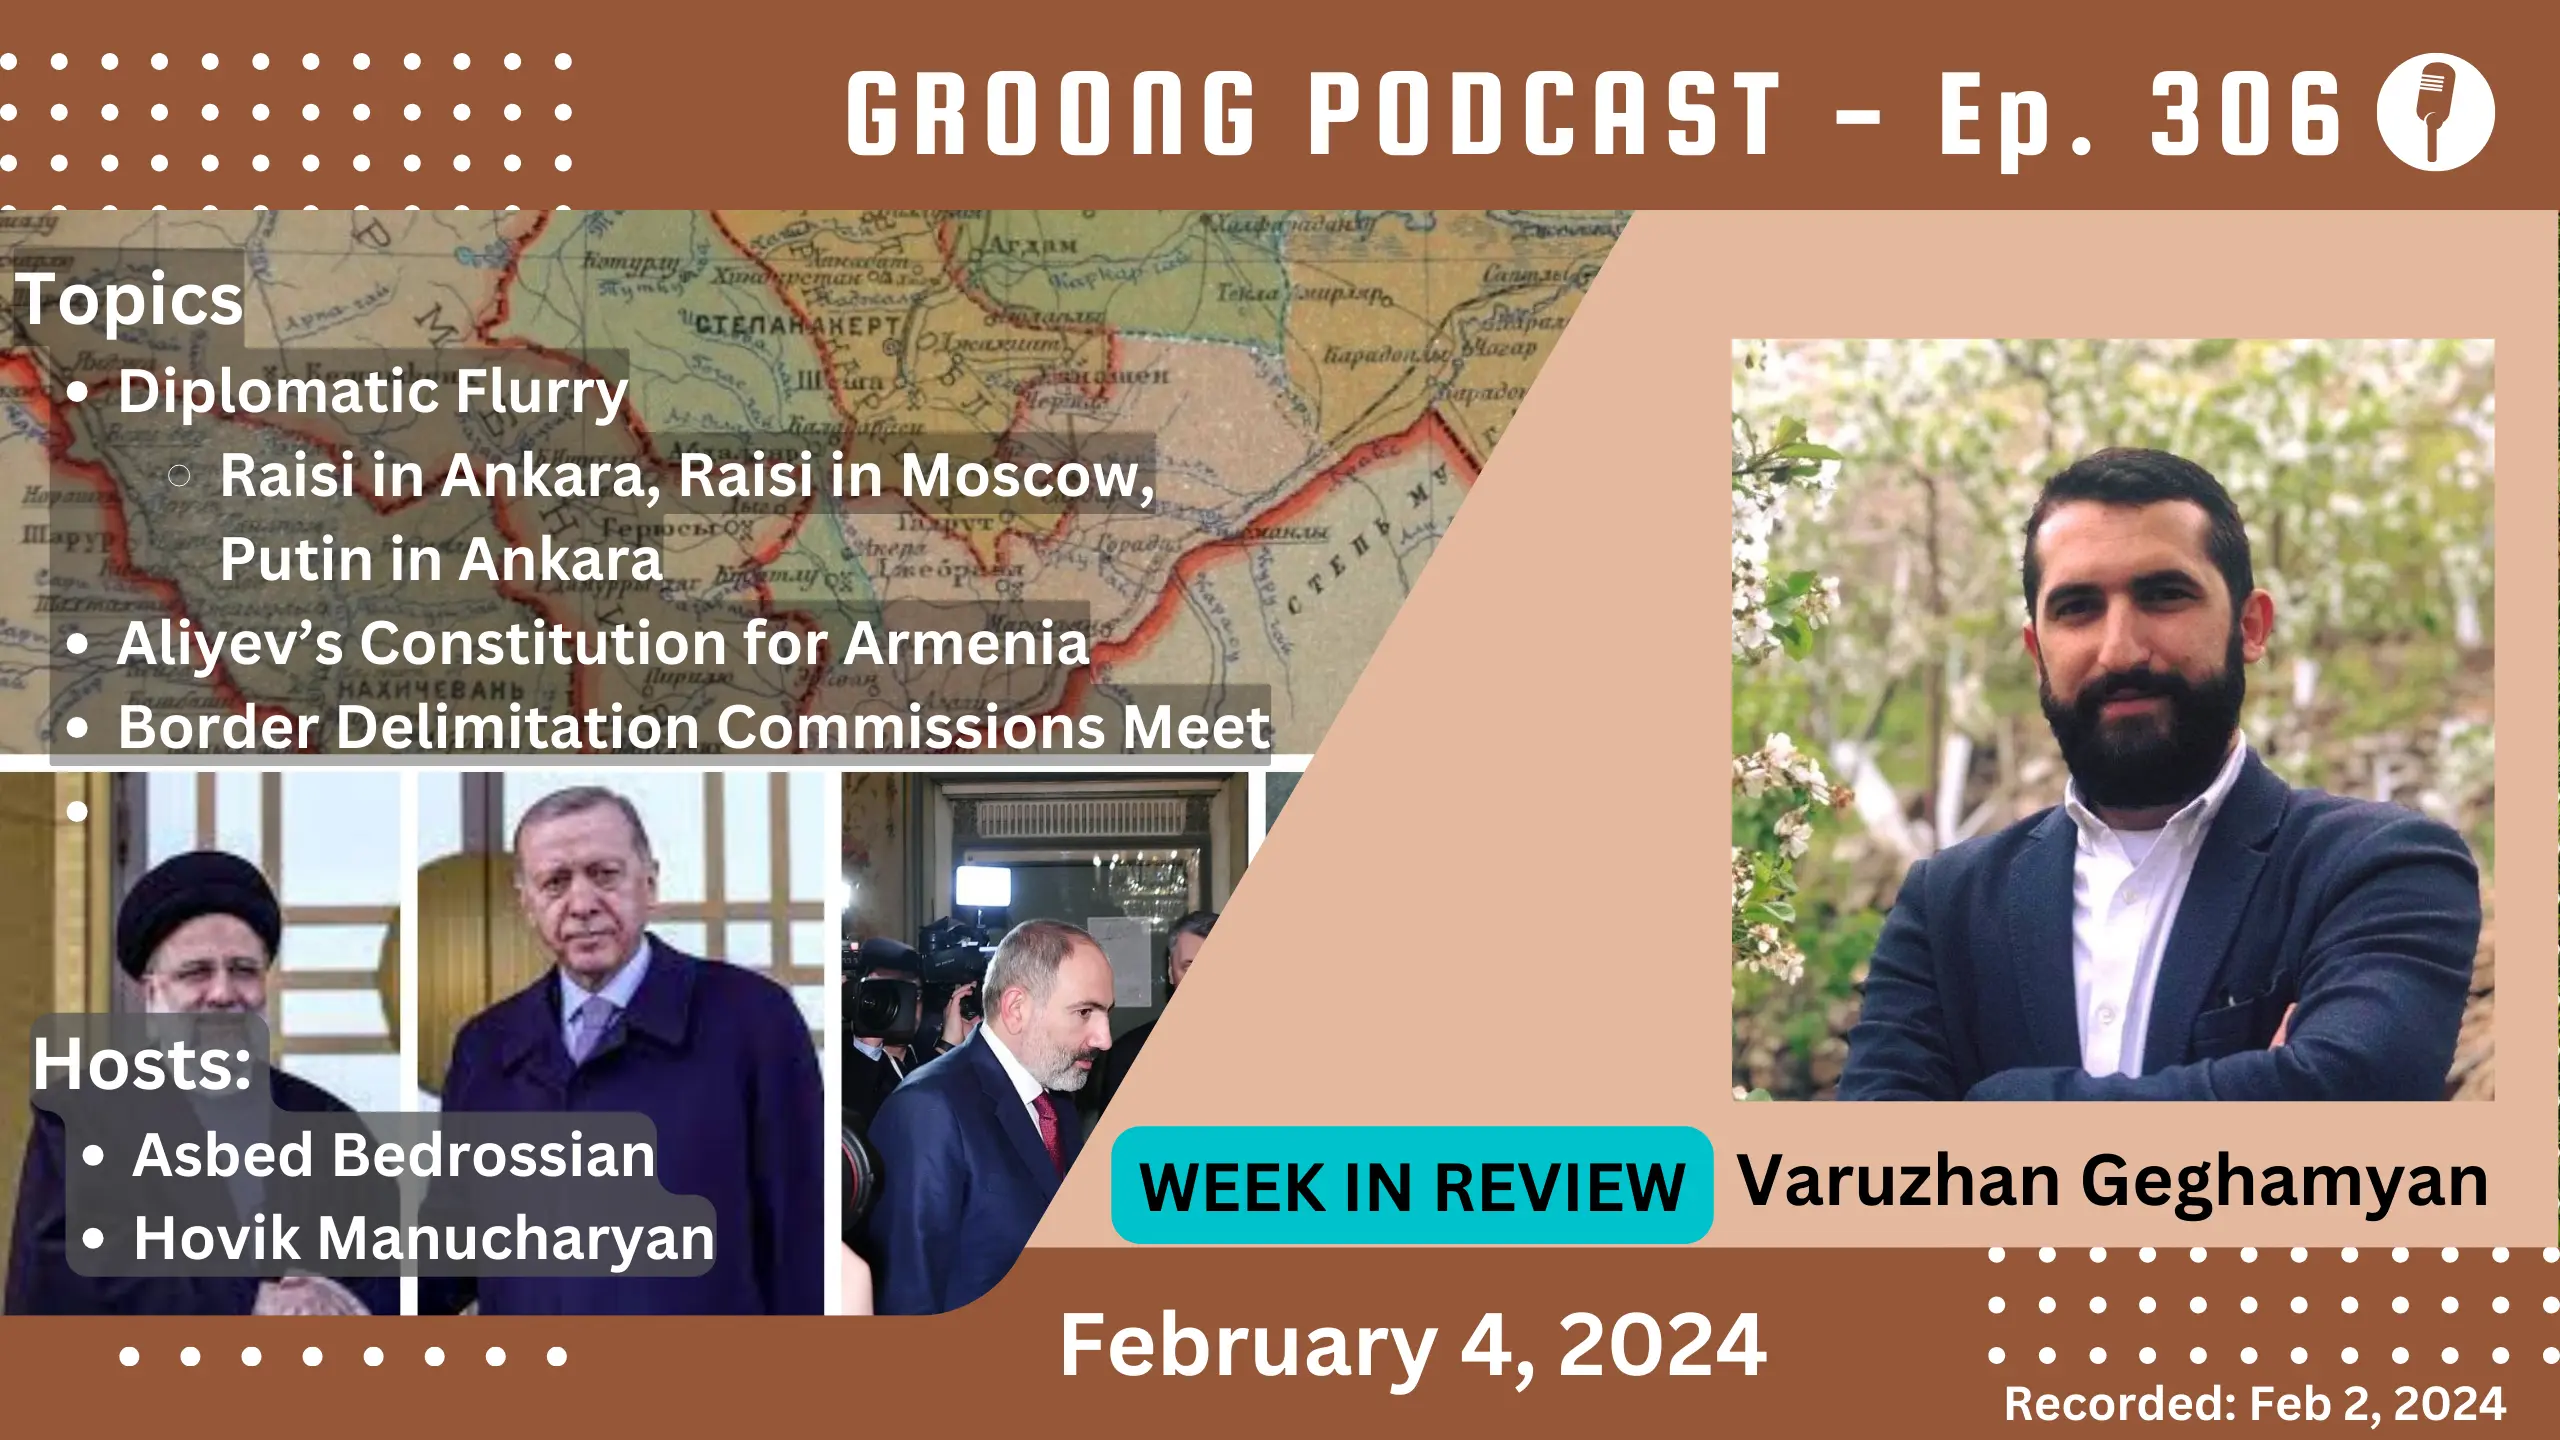
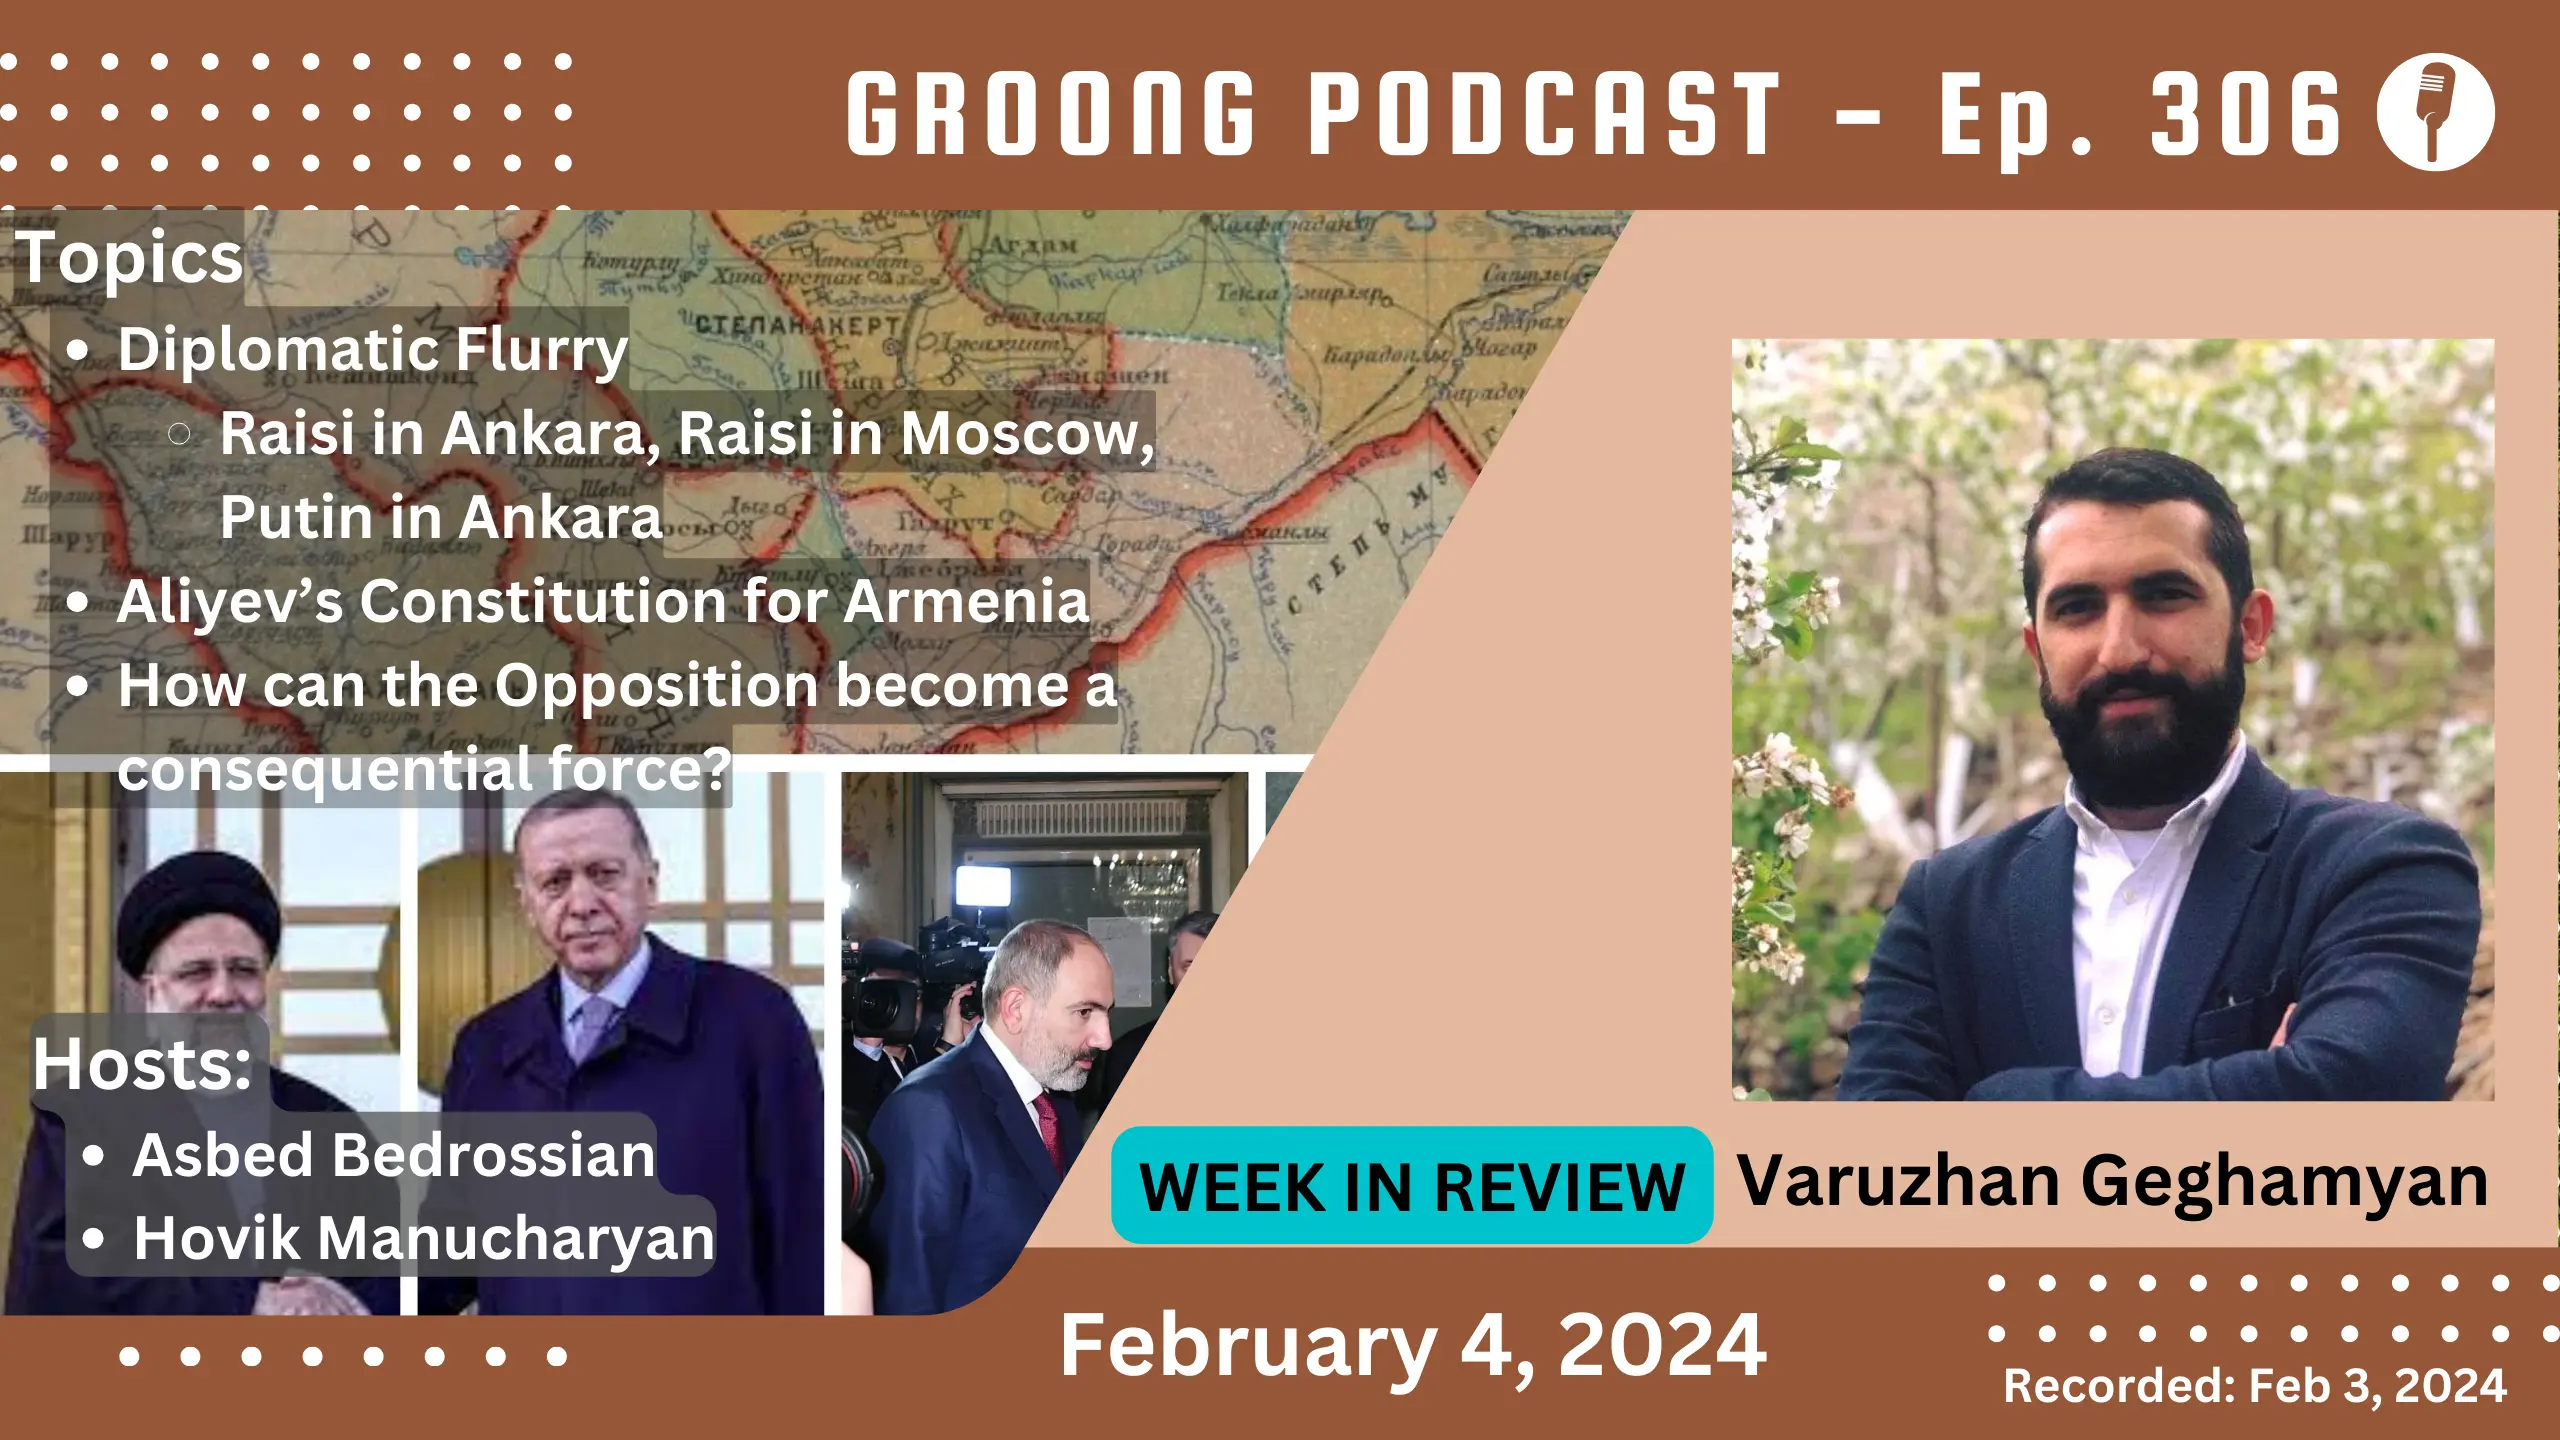
Contentifying Ep 306.

Changed region(s): [[0.0, 0.125, 0.5, 0.5625], [0.7812, 0.8438, 1.0, 1.0]]

diff --git a/content/episode/306-varuzhan-geghamyan-armenian-azerbaijani-talks-ebrahim-raisi-recep-erdogan-ankara-domestic-politics.md b/content/episode/306-varuzhan-geghamyan-armenian-azerbaijani-talks-ebrahim-raisi-recep-erdogan-ankara-domestic-politics.md
@@ -39,19 +39,113 @@ Description = """Armenian News Network/Groong Week in Review - Feb 4, 2024
 * [Varuzhan Geghamyan](/guest/vgeghamyan)
 
 #### Topics:
-* TBD
-
-Episode 306 | Recorded: February 2, 2024
+* Diplomatic Flurry
+    * Raisi in Ankara
+    * Raisi in Moscow
+    * Putin in Ankara
+* Aliyev’s Constitution for Armenia
+* How can the Opposition become a consequential force?
+Episode 306 | Recorded: February 3, 2024
 """
 
 +++
+
+## Diplomatic Flurry
+
+Since the 44-Day war, Iran has woken up to the new geopolitical realities, understanding that it can no longer leave the northern vector to a silent alliance with Russia. Iran has increased its diplomatic activity and military readiness, and on the economic front, as of January 1, Iran is a member of BRICS and has a sweeping free trade agreement with the EAEU. And its one border with the EAEU is with Armenia.
+
+
+### Raisi in Ankara
+
+On January 24 Iranian president Ebrahim Raisi visited Ankara and held direct talks with Turkish president Erdogan. Press releases of [Iran](https://en.irna.ir/news/85365486/Iran-Turkiye-vow-to-boost-mutual-ties-Raisi) and Turkey emphasized that there were10 agreements which the two signed, primarily in the [areas](https://www.tehrantimes.com/news/494133/Iran-Turkey-conclude-10-co-op-documents-during-President-Raisi-s) of railways, energy exchange, and establishment of joint commercial and communication zones. A key interest for the two countries is to [increase bilateral trade](https://en.irna.ir/news/85365117/Iran-s-president-returns-after-day-long-official-visit-to-Turkiye) to $30 billion, a 500% increase.
+
+In addition to condemning Israeli violence in Gaza and making statements supporting the Palestinian cause, the sides [discussed](https://www.arabnews.com/node/2448766) regional security including Syria, Iraq, Afghanistan, and the South Caucasus.
+
+Iran’s foreign minister Hossein Amir [Abdollahian was in Ankara](https://www.tehrantimes.com/news/480970/Iran-FM-visits-Turkey-for-regional-talks) a week before Raisi, and met with both Turkish FM Mevlut Çavušoglu, as well as Erdogan. Abdollahian referred to the discussions about the South Caucasus as “important regional issues that ultimately correlate with the security of the region” and said “more movements in this area are an important necessity today.”
+
+When Raisi returned home, we again heard strong statements that Iran will not accept any change to International borders, alluding to the so-called Zangezur corridor through Armenia that Turkey and Azerbaijan have their eyes on.
+
+**Questions:**
+* Can you describe the geopolitical dance between these two regional powers, Turkey and Iran, regarding both the Middle East, and the South Caucasus? What are their main areas of interest, what are their areas of cooperation, and areas of either disagreement or competition?
+* How do the negotiations over their relationship about Gaza affect their relationship towards Armenia and the South Caucasus?
+* Raisi has [said](https://www.times-georgian.com/news/national/irans-raisi-erdogan-pledge-to-contain-gaza-violence/article_9c82ca66-7323-5011-86a8-80c5824893d8.html) that Iran believes that all states should limit or stop their activities or relations with Israel, to discourage the atrocities in Gaza. Iran says Turkey should do more in this area. Given that Azerbaijan is one of Israel’s key sources of revenue and Turkey is a conduit for Azerbaijani oil & gas to Israel, how does this affect Iran’s relationship with Azerbaijan?
+
+
+### Raisi in Moscow
+
+In December 2023, a month before his visit to Ankara, Raisi was [in Moscow](https://www.tehrantimes.com/news/492271/Raisi-arrives-in-Moscow-for-talks-with-Putin) for extensive discussions with Putin, who had just returned from a visit to Saudi Arabia and the UAE. Most of the publicized topics were around Gaza, Ukraine, and the increasing economic and defense ties which are building up towards a strategic partnership between the two countries.
+
+**Questions:**
+* What is binding Iran and Russia so tightly, since the war in Ukraine exploded?
+* Are there areas of friction between the two countries at present?
+* How are Iran and Russia aligned in the South Caucasus?
+    * For instance, is Iran ok with Russia’s proposal to control security on the so-called “Zangezur corridor”?
+
+
+### Putin in Ankara
+
+Russian president [Putin will visit Erdogan](https://www.reuters.com/world/russias-putin-visit-nato-member-turkey-feb-12-turkish-official-2024-01-31/) in Ankara On February 12. So we can see that the major powers surrounding the South Caucasus are very active diplomatically. Turkey, Iran and Russia are the 3 majors in the so-called 3+3 platform, where the 3 minors are Armenia, Azerbaijan and Georgia.
+
+It seems like the 3 majors are very interested in the 3+3, while the 3 minors are at best lukewarm towards it.
+
+**Questions:**
+* Does the 3+3 platform have a future, or is it a dead thing? And what is its goal?
+* Why are the majors interested in it, and why are the minors rather disinterested?
+
+Some of the [agenda](https://www.eurasiareview.com/15012024-plenty-on-the-agenda-should-putin-and-erdogan-meet-oped/) topics between Putin and Erdogan are:
+* The Ukraine grain deal, which reportedly tops the agenda.
+* Russia building nuclear power plants in Turkey.
+* NATO and Ukraine Navy access to the Black Sea.
+* Turkey as an energy and airspace communication link for Russia.
+
+**Question:**
+* What are the main areas of cooperation and also competition between Turkey and Russia at present? What does Putin hope to achieve in Ankara?
+
+
+## Aliyev’s Constitution For Armenia
+
+2024 is only a month old and it feels like a year in Armenia given the amount of geopolitical intrigue and continued confirmations that Armenia appears to be controlled remotely from Baku.
+
+The year began with Pashinyan getting a makeover in his looks, wearing a silly Lenin cap and going around the country checking the quality of bathrooms in public schools and dismissing governors he found responsible for shortcomings. To many analysts this looked a lot like electioneering, but Pashinyan laughed that off.
+
+Then the clowning around in school bathrooms stopped and was dominated by news from Azerbaijan where at the highest levels, Aliyev rejected one myth after another that Pashinyan has been selling to the Armenian public. 
+
+So far, Aliyev has:
+* Rejected mediation by the West in the “peace treaty” negotiations
+* Rejected Pashinyan’s pleas to recognize Armenia’s territorial integrity with 29,800 sq km of area
+* Rejected the idea that there should be a security guarantor to a future so-called “peace treaty”
+* Demanded to receive guarantees that Armenia could never pose a military threat to Azerbaijan in the future
+* Demanded 8 “villages” that he claims belong to Azerbaijan
+* Continued demands about the “Z corridor”
+* Promoted talk about return of Azerbaijanis to “Western Azerbaijan”, which is what he calls Armenia
+* And most recently, yesterday, he said that Armenia must change its constitution as a condition for peace
+
+Pashinyan has stacked the constitutional court in his favor starting in early 2020, and since the 44-Day war, there have been constant rumors that Azerbaijan & Turkey are pressuring Pashinyan to remove references to the Genocide, Western Armenia and Artsakh from the Armenian constitution and Declaration of Independence. Those who publicly talked about this were called conspiracy theorists until this month when [Pashinyan](https://www.azatutyun.am/a/32801656.html) and many of his mouthpieces came clean about their plans to scrap the current constitution, and write an entirely new one. [Because Aliyev said so](https://www.azatutyun.am/a/32801517.html).
+
+Yesterday, in an [interview](https://www.youtube.com/watch?v=5nBMg4hOkWQ) to Armenian Public Radio, Pashinyan said that there will never be peace if Armenia’s policy is based on the declaration of independence.
+
+Questions:
+* What is Pashinyan’s goal with the Armenian constitution and the recent apparent electioneering? Do you think he’ll aim for a constitutional referendum and maybe even elections at the same time?
+* Pashinyan destroyed the third republic, so he’s [talking about creating a fourth republic](https://armenpress.am/eng/news/1129388.html). Is this the right thing to do, and is he the right person for it?
+
+
+In the same interview, Pashinyan [referred](https://armenpress.am/eng/news/1129391.html) to Armenia’s security architecture and that Armenian needs a new national security strategy and relations with Russia in the sphere of security. Specifically he [said](https://armenpress.am/eng/news/1129395.html):
+
+    "Previously, 95%-97% of our defense sector relations were with Russia, now it cannot be so ... Now we have to understand what kind of relations we have, for example, with India in this concept.”
+
+**Question:**
+* Do you believe Pashinyan’s reasoning has any objective basis? Do you believe that the argument that some make, that Russia is busy with a war in Ukraine who has the support of the entire NATO, and therefore legitimately its hands are tied, can be a legitimate justification for Russia’s lack of military support for Armenia, even in terms of arms shipments? Do you believe that is a fair assessment or what we should bet on? And does this mean that Armenia must replace Russia as its primary partner or work to repair the relationship that existed before?
+
+We know that the opposition has decried all of these ongoing developments vehemently. But the reality is that there has been no substantive echo from Armenian society in the republic. There is a huge disconnect between the republic and the diaspora, caused by this leadership.
+
+**Questions:**
+* How does the opposition become a meaningful, consequential force in Armenia under current circumstances?
 
 
 
 ## Thoughts from the Panelists
 
-* __Hovik:__ 
-* __Varuzhan:__ 
+* __Varuzhan:__ Not sure that 2024 will not witness more attacks on Armenia.
 
 
 # Wrap-up
